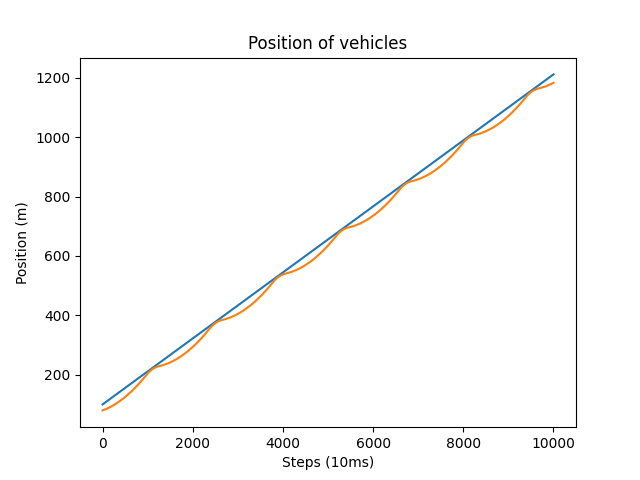
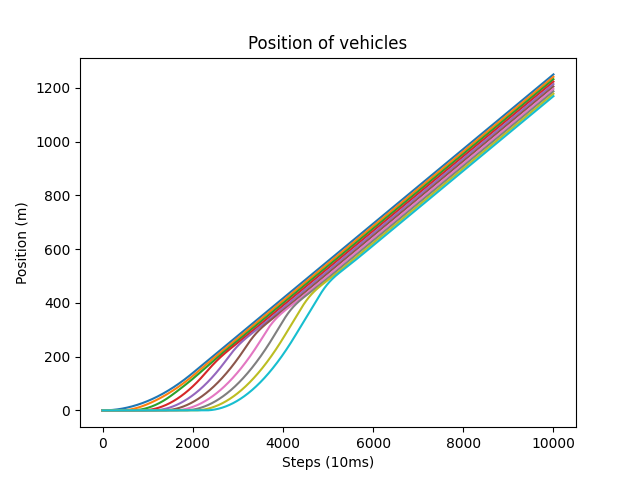
Functional PID controller for platooning

diff --git a/simulations/src/vehicle/vehicle.py b/simulations/src/vehicle/vehicle.py
@@ -4,6 +4,7 @@ class Vehicle:
     max_speed = 100 # (km/h)
     max_acceleration = 0.05 # speed (km/h) / step
     max_deceleration = 0.2 # speed (km/h) / step
+    array_distance_errors_len = 100
 
     def __init__(self, order) -> None:
         self.speed = 0  # initially it the vehicle stands still
@@ -11,7 +12,10 @@ class Vehicle:
         self.position = 0  # current position of the vehicle in meters
         self.distance = 0  # distance to the vehicle in front (-1 if no one is in front)
         self.order = order  # number of vehicles in front (first has order = 0)
-        self.sum_distance_errors = 0
+        self.array_distance_errors = [0]*self.array_distance_errors_len
+        self.array_distance_errors_pointer = 0
+        self.error_derivative = 0
+        self.prev_distance_error = 0
         self.min_distance = 9  # how close the vehicles should be to each other, depends on speed. (m)
 
     # This should be called each step
@@ -24,7 +28,7 @@ class Vehicle:
     # This should be called each step
     def update_position(self):
         speed_ms = self.speed/3.6
-        distance_traveled_per_step_m = speed_ms/100
+        distance_traveled_per_step_m = speed_ms/100  # TODO: should work with any step size
         self.position = self.position + distance_traveled_per_step_m
 
         return self.position
@@ -37,13 +41,22 @@ class Vehicle:
             self.distance = 0
         else:
             self.distance = position_of_vehicle_in_front - self.position
-        
-        self.sum_distance_errors = self.sum_distance_errors + (self.distance-self.min_distance)
+
+        error = self.distance - self.min_distance
+        self.error_derivative = error - self.prev_distance_error # ms
+        self.prev_distance_error = error
+
+        self.array_distance_errors[self.array_distance_errors_pointer] = error
+        #self.array_distance_errors_pointer = 1 + self.array_distance_errors_pointer
+        if self.array_distance_errors_pointer == self.array_distance_errors_len-1:
+            self.array_distance_errors_pointer = 0
+
+        #self.sum_distance_errors = self.sum_distance_errors + error
         return self.distance
 
     def calculate_valid_speed(self, desired_speed):
         # Calculate valid speed, i.e., between 0 and 100
-        allowed_speed = min(max(int(desired_speed), 0), 100)
+        allowed_speed = min(max(desired_speed, 0), 100)
 
         # Calculate valid acceleration/deceleration
         speed_up  = allowed_speed - self.speed > 0

diff --git a/simulations/src/vehicle/vehicle_pid_distance.py b/simulations/src/vehicle/vehicle_pid_distance.py
@@ -14,19 +14,24 @@ class VehiclePidDistance(Vehicle):
         is_leader = self.order == 0
 
         if is_leader:
-            #if self.speed < self.max_speed:
-            #    self.speed = self.speed + self.max_acceleration/2
-            #elif step > 60: # TODO: should change to when it actually should start slowing down
-            #    self.speed = self.speed - self.max_acceleration/2
+            if self.speed < self.max_speed/2:
+                self.speed = self.speed + self.max_acceleration/2
+            elif step > 60: # TODO: should change to when it actually should start slowing down
+                self.speed = self.speed - self.max_acceleration/2
             # else remain constant speed
             pass
         else: 
             distance_from_min = (self.distance - self.min_distance)
-            kp = 0.5
-            ki = 0
-            integral = 10 * self.sum_distance_errors # 10 ms for each step * (sum of all distance_errors) gives area
-            fs = kp * distance_from_min + ki * integral
+            kp = 0.05/17
+            ki = 0.01
+            kd = 3
+            integral = sum(self.array_distance_errors) # 1 step * (sum of all distance_errors) gives area
+            derivative = self.error_derivative
+            print(self.order, distance_from_min, derivative)
+            fs = kp * distance_from_min + ki * integral + kd * derivative
             desired_speed = self.speed + fs
+            print(self.order, desired_speed)
             self.speed = self.calculate_valid_speed(desired_speed)
+            print(self.order, self.speed)
 
         return self.speed

diff --git a/simulations/src/vehicle/vehicle_bidirectional.py b/simulations/src/vehicle/vehicle_bidirectional.py
@@ -1,0 +1,38 @@
+from src.vehicle.vehicle import Vehicle
+
+class VehicleBidirectional(Vehicle):
+
+    def __init__(self, order, init_speed, init_position, init_distance):
+        Vehicle.__init__(self, order)
+        # TODO: save the position for all of the vehicles 
+        # could be a global object or each save there data.
+        # if each has there own data you could introduce disturbance 
+        # which becomes more realistic. We can then have a error rate of 
+
+        self.speeds = [] #np array  S \times N, where S is number of steps
+        self.relative_positions = [] #np array  S \times N, where S is number of steps
+
+    # This should be called each step
+    def update_speed(self, step):
+        # Calculate the new step and update old if needed
+        is_leader = self.order == 0
+
+        if is_leader:
+            if self.speed < self.max_speed:
+                self.speed = self.speed + self.max_acceleration/2
+            elif step > 60: # TODO: should change to when it actually should start slowing down
+                self.speed = self.speed - self.max_acceleration/2
+            # else remain constant speed
+            pass
+        else: 
+            desired_speed = self.speed
+            self.speed = self.calculate_valid_speed(desired_speed)
+
+        return self.speed
+
+
+    def update_all_speeds(self, speeds_vector):
+        self.speeds.append(speeds_vector)
+
+    def update_all_relative_positions(self, relative_positions_vector):
+        self.relative_positions.append(relative_positions_vector)

diff --git a/simulations/src/platoon/platoon_pid_distance.py b/simulations/src/platoon/platoon_pid_distance.py
@@ -8,6 +8,6 @@ class PlatoonPidDistance(Platoon):
         Platoon.__init__(self, num_vehicles)
 
     def init_vehicles(self, num_vehicles):
-        self.vehicles.append(VehiclePidDistance(order=0, init_speed=40, init_position=100, init_distance=0))
+        self.vehicles.append(VehiclePidDistance(order=0, init_speed=0, init_position=0, init_distance=0))
         for i in range(num_vehicles-1):
-            self.vehicles.append(VehiclePidDistance(i+1, init_speed=20, init_position=80, init_distance=20))
+            self.vehicles.append(VehiclePidDistance(i+1, init_speed=0, init_position=0, init_distance=0))

diff --git a/simulations/simulation-pid-distance-model.py b/simulations/simulation-pid-distance-model.py
@@ -21,4 +21,4 @@ def simulate(num_steps, num_vehicles):
     plot_distances(distances, num_vehicles, 'plots/distances-with-pid-distance-model.png')
 
 if __name__ == "__main__":
-    simulate(10000, 2)
+    simulate(10000, 10)
